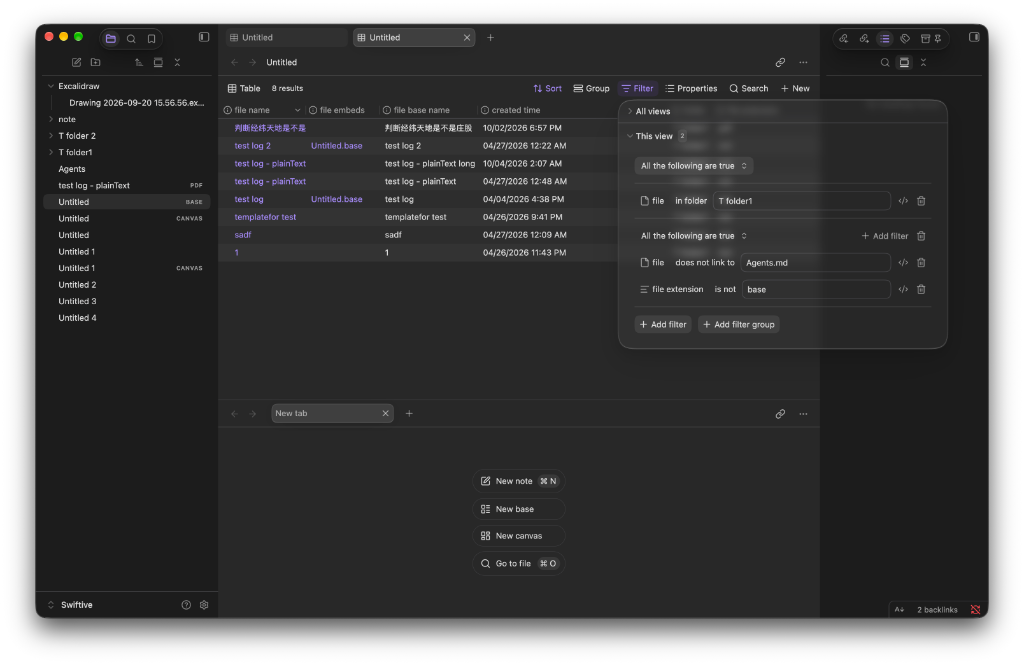
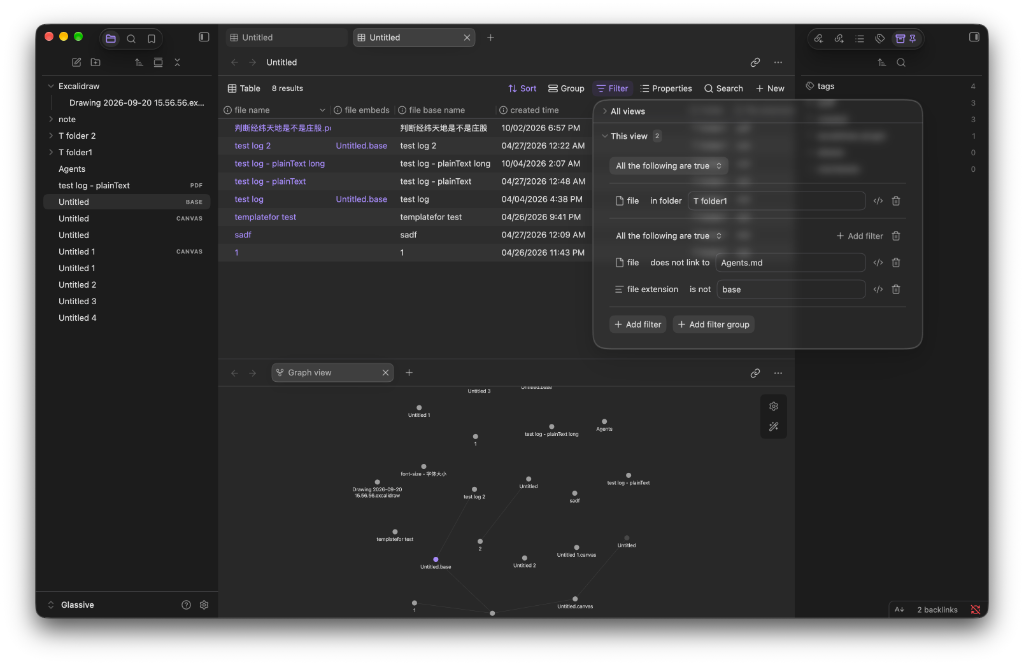
docs: refresh previews and add example screenshots

diff --git a/README.md b/README.md
@@ -12,6 +12,9 @@ A theme for [Obsidian](https://obsidian.md) that blends macOS Liquid Glass with 
 - **Progressive blur**: applied when the window gets small, so cramped layouts stay calm.
 - **Custom palettes**: separate color sets tuned for light and dark mode.
 
+![Settings](screenshots/theme-example1.png)
+![Command palette](screenshots/theme-example2.png)
+
 ## Compatibility
 
 - Tested on macOS only. I don't have Windows or Linux devices, so the theme hasn't been tested there.
